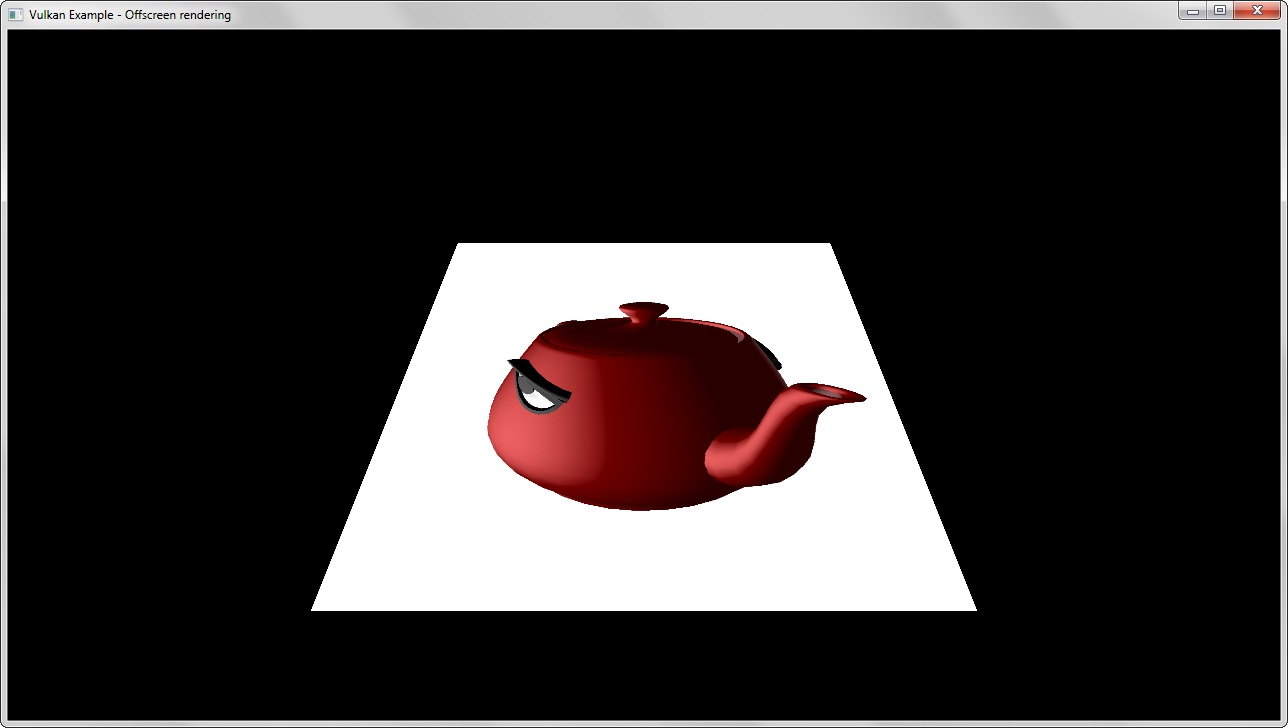
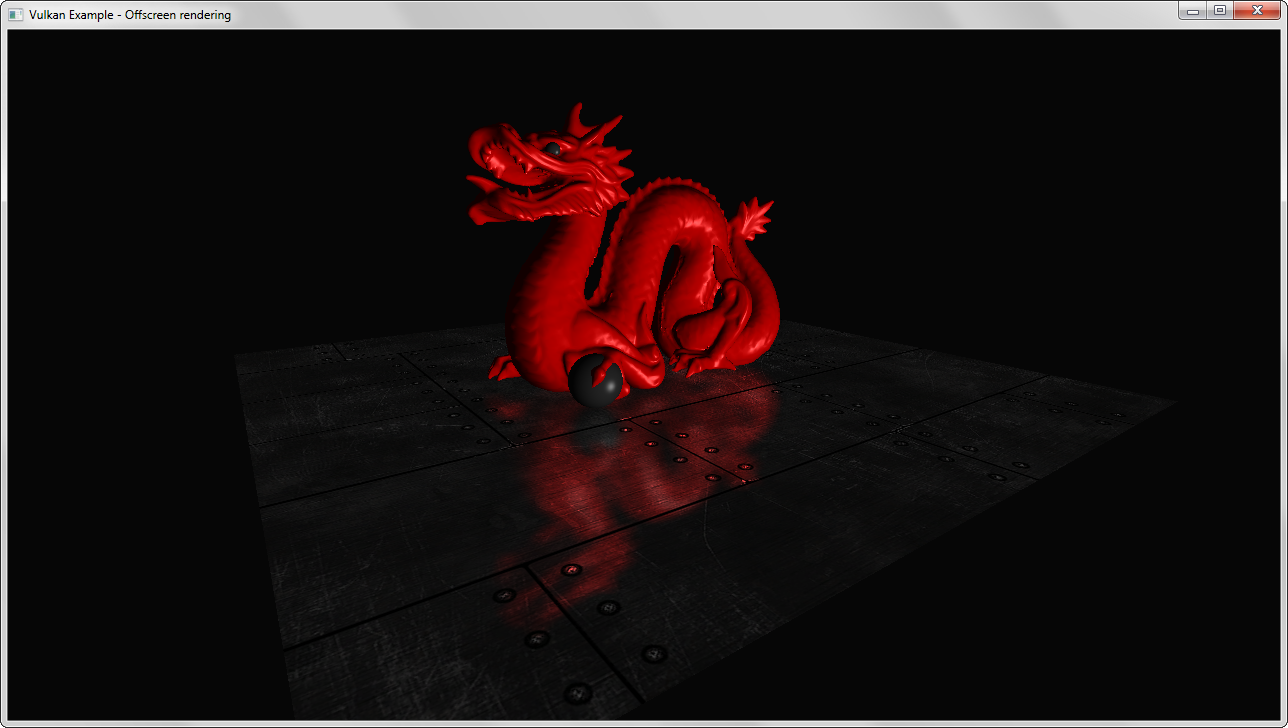
Updated screenshot and info in offscreen example

Changed region(s): [[0.2174, 0.1511, 0.7764, 0.8764], [0.2795, 0.8764, 0.3727, 0.9973]]

diff --git a/README.md b/README.md
@@ -74,7 +74,7 @@ Demonstrates the use of push constants for updating small blocks of shader data 
 ### Offscreen rendering
 <img src="./screenshots/basic_offscreen.png" height="128px">
 
-Uses a separate framebuffer (that is not part of the swap chain) for rendering a 3D scene off screen and blits it into a texture target displayed on a quad. The blit does scaling and (if required) also format conversions.
+Uses a separate framebuffer (that is not part of the swap chain) and a texture target for offscreen rendering. The texture is then used as a mirror.
 
 ### Radial blur
 <img src="./screenshots/radial_blur.png" height="128px">
